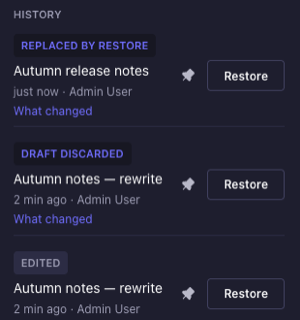
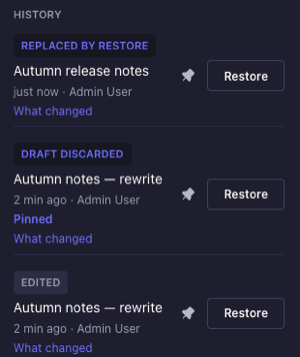
fix(rewind): stop the pinned marker wrapping onto a stranded separator (#165)

diff --git a/packages/strapi-plugin-rewind/admin/src/components/HistoryPanel.tsx b/packages/strapi-plugin-rewind/admin/src/components/HistoryPanel.tsx
@@ -265,18 +265,23 @@ const PanelContent = ({
               <Typography variant="pi" textColor="neutral600">
                 {formatWhen(version.createdAt)}
                 {version.user ? ` · ${version.user.name}` : ''}
-                {/*
-                  The pin icon alone says this in colour, on sixteen pixels.
-                  That is not enough on its own - not for a glance down a list
-                  of ten rows, and not for anyone who does not separate those
-                  two colours - so the state is spelled out here as well.
-                */}
-                {version.pinned ? (
-                  <Typography variant="pi" textColor="primary600" fontWeight="bold">
-                    {' · Pinned'}
-                  </Typography>
-                ) : null}
               </Typography>
+              {/*
+                The pin icon alone says this in colour, on sixteen pixels. That
+                is not enough on its own - not for a glance down a list of ten
+                rows, and not for anyone who does not separate those two colours
+                - so the state is spelled out here as well.
+
+                On its own line rather than appended to the one above. The panel
+                is narrow enough that a date, a name and " · Pinned" do not fit
+                on one line, and the wrap put the separator at the end of the
+                previous line with nothing after it.
+              */}
+              {version.pinned ? (
+                <Typography variant="pi" textColor="primary600" fontWeight="bold">
+                  Pinned
+                </Typography>
+              ) : null}
               <TextButton onClick={() => showChanges(version)}>What changed</TextButton>
             </Flex>
 

diff --git a/packages/strapi-plugin-rewind/README.md b/packages/strapi-plugin-rewind/README.md
@@ -103,7 +103,7 @@ saves the draft and publishes it as two separate operations.
 
 A save that is rolled back records nothing.
 
-<img src="https://raw.githubusercontent.com/qkix/strapi-plugins/main/packages/strapi-plugin-rewind/docs/panel.png" alt="History entries labelled Replaced by restore, Draft discarded and Edited" width="320" />
+<img src="https://raw.githubusercontent.com/qkix/strapi-plugins/main/packages/strapi-plugin-rewind/docs/panel.png" alt="History entries labelled Replaced by restore, Draft discarded and Edited, the Draft discarded one marked Pinned" width="320" />
 
 The badge says what happened to the document. **Replaced by restore** marks the
 state a restore was about to overwrite - the undo point for that restore.
